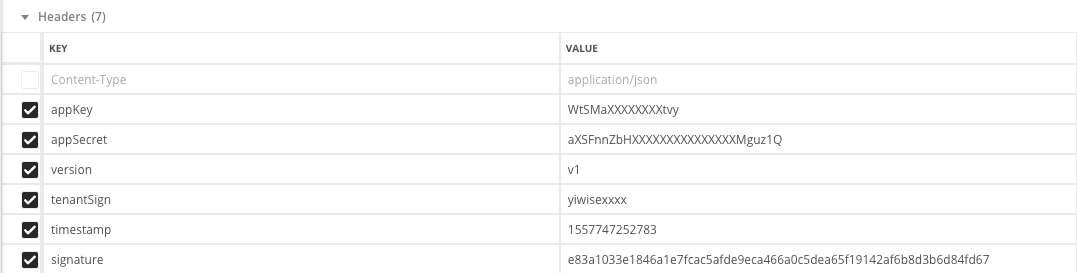
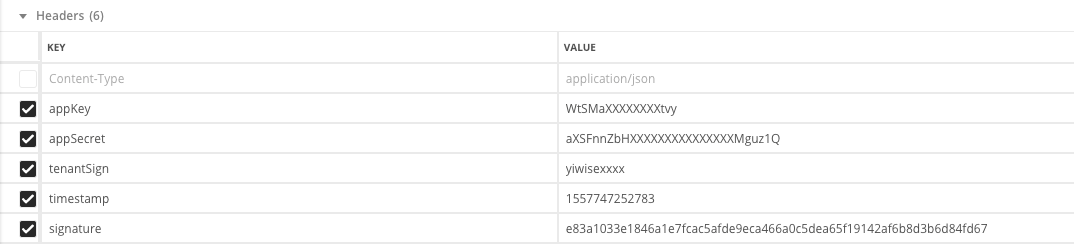
[Fix] - Fix develop introduction

diff --git a/source/includes/Introduction.md b/source/includes/Introduction.md
@@ -6,13 +6,13 @@
 
 这种调用方式是客户主动调用接口获取数据或实现功能；
 
-主动调用需在请求头传入 appKey、appSecret、version（当前版本的VERSION=v1）、tenantSign（公司签名，后期提供修改）时间戳 timestamp 和验签字段 signature 用于权限校验；
+主动调用需在请求头传入 appKey、appSecret、tenantSign（公司签名，后期提供修改）、时间戳 timestamp 和验签字段 signature 用于权限校验；
 
 如下图所示：
 
 ![](../images/headers.png)
 
-注意：请在开发对接程序前联系探意技术支持进行注册，如果你还未签约，请先签约开通账户。
+注意：请在开发对接程序前联系探意技术支持进行注册，如果您还未签约，请先签约开通账户。
 
 ### 方法回调 
 
@@ -20,11 +20,11 @@
 
 注意：请在开发前自主配置好回调地址。
 
-探意机器人API是使用HTTP并遵循REST原则设计的Web服务接口；
+探意机器人 API 是使用 HTTP 并遵循 RESTful 原则设计的 Web 服务接口；
 
-您可以使用几乎任何客户端和任何编程语言与REST API进行交互。
+您可以使用几乎任何客户端和任何编程语言与 RESTful API 进行交互。
 
-通过发送简单的HTTP请求就可以轻松接入使用。
+通过发送简单的 HTTP 请求就可以轻松接入使用。
 
 ## 权限认证
 
@@ -41,7 +41,7 @@ API认证采用SHA256加密算法进行加密，使用时间戳、APP_KEY、APP_
 目前已有完成JAVA版的样例，具体实现请下载SDK查阅。
 
 
-> 请在API样例`openapidemo`中替换为自己的APP_KEY、APP_SECRET和 TENANT_SIGN.
+> 请在API样例 `openapidemo` 中替换为自己的APP_KEY、APP_SECRET和 TENANT_SIGN.
 
 探意为确保您的账户和信息安全，请在开发对接程序前联系探意技术支持注册接口调用专属密钥。
 
@@ -51,36 +51,39 @@ API认证采用SHA256加密算法进行加密，使用时间戳、APP_KEY、APP_
 
 ## 统一请求格式
 
-URL格式：
+### 请求方式(Method)
 
-<code>/{version}/{resource}/{function}</code>
+GET/POST
 
-说明： 
+### 编码
 
-{version}api版本号
+UTF-8
 
-{resource}为资源名，通常对应一类API
+### URL格式
 
-{function}为该资源提供的操作方法
+`/{version}/{resource}/{function}`
 
-请求响应的结果为json格式
+### 变量说明
+
++ {version} api版本号
+
++ {resource} 资源名，通常对应一类API
+
++ {function} 该资源提供的操作方法
+
+### 响应
+
+请求响应的结果为 JSON 格式。
+
+HTTP 头信息:
+
+`Accept:application/json;charset=utf-8`
 
 > 比如查询公司列表的 URL 为：`http://apiOpen/v1/tenant/getTenant`
   
 > 表示调用公司信息的get方法，并且返回json格式的字符串。
 
 > 我们目前已经提供的接口，请参考API。
-
-
-HTTP头信息:
-
-<code>Accept:application/json;charset=utf-8</code>
-
-说明：
-
-请求方式(Method)：统一用GET/POST方式，编码：UTF-8
-
->
 
 ## JAVA SDK DEMO 下载
 
@@ -98,7 +101,7 @@ JAVA | [GitHub地址](https://github.com/yiwise/openapidemo.git)
 
  ![](../images/OMS3.png)
 
-##常见问题解答
+## 常见问题解答
 
 1. Q: 定时任务和手动任务的异同
 

diff --git a/source/includes/task.md b/source/includes/task.md
@@ -74,7 +74,7 @@ POST
 参数名 | 类型 | 是否必须 | 描述 | 实例 
 --------- | ------- |------- | ------ |----------
  concurrencyQuota| Integer| 是 | 并发数（线路类型为手机号的时候可不传）| 10|
- jobPhoneNumberIdList| List| 是 |任务主叫号码列表 tenant_phone_number_id,当类型是手机号的时候他的size代表机器人的个数，当类型非手机号的时候他的size只能是1, 如果外呼方式选择的是外呼策略组，则里面内容为外呼策略组的id（size只能为1）|  [1,2,3] |
+ jobPhoneNumberIdList| List| 是 |任务主叫号码列表 tenant_phone_number_id,当类型是手机号的时候他的size代表机器人的个数，当类型非手机号的时候他的size只能是1；如果外呼方式选择的是外呼策略组，则里面内容为外呼策略组的id（size只能为1）|  [1,2,3] |
  transferPhoneNumber| List| 选择转人工话术时必填 |转人工号码,触发转人工时轮训号码列表| ["1523654789","1758426896"] |
  name| String| 是 |任务名称| 测试API任务 |
  mode| String| 是 | 任务类型 (AUTO, "自动任务"),(MANUAL, "手动任务"); | AUTO |

diff --git a/source/includes/version.md b/source/includes/version.md
@@ -3,7 +3,7 @@
 ## 2019年5月14日
 
 + 新增外呼策略组接口
-+ 新增请求调用示例截图
++ 新增请求调用示例截图，完善调用说明
 
 ## 2019年4月25日
 
